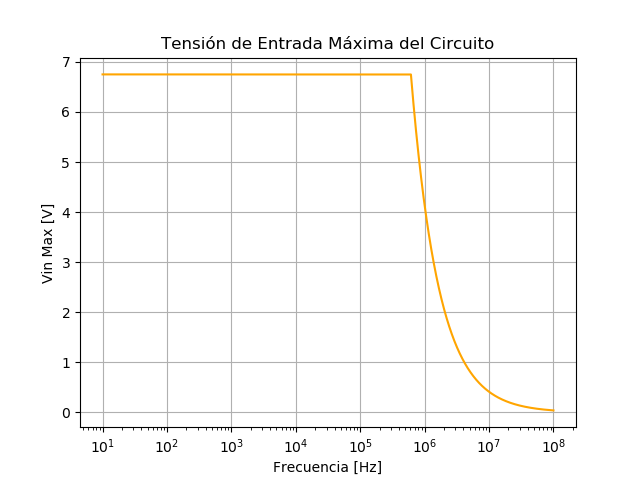
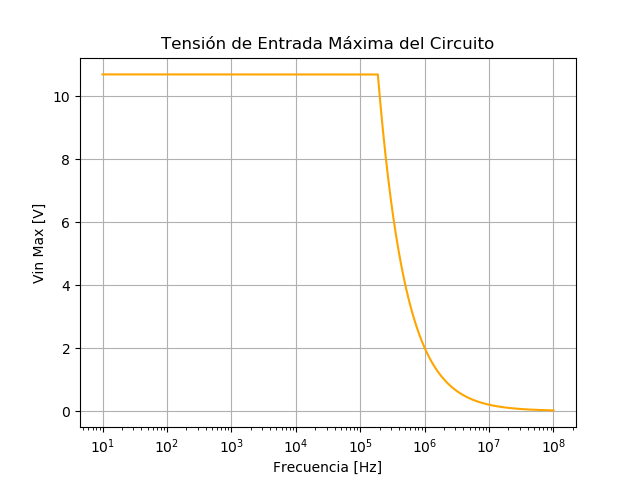
cvbnm

diff --git a/TP3/Ej1/informe previsorio/ej1.tex b/TP3/Ej1/informe previsorio/ej1.tex
@@ -647,11 +647,11 @@ $\pm 18V$ & $\pm 15V$ & $3MHz$ & $\approx V_{CC}-1.5V$ & $13\frac{V}{\mu s}$\\ \
 \label{tab:datos_tl082}
 \end{table}
 
-Observando la tabla ya se puede corroborar que la tensión de alimentación no debe sobrepasar los $18V$ y la tensión de entrada no debe sobrepasar los $15V$ nunca.
+Observando la tabla ya se puede corroborar que la tensión de alimentación no debe sobrepasar los $18V$ y la tensión de entrada no debe sobrepasar los $15V$ nunca. Para el análisis de las limitaciones del circuito, sin embargo, se utilizarán $\pm 15V$ de alimentación como recomendado por el fabricante.
 Luego, teniendo en cuenta que la ganancia máxima del circuito es de $\approx 2dB$, se tiene que
 
 \begin{equation}
-	V_{in_{max}} = \frac{V_{CC} - 1.5V}{G_{max}} = \frac{13.5V}{2} = 6.75V
+	V_{in_{max}} = \frac{V_{CC} - 1.5V}{G_{max}} = \frac{13.5V}{1.26} = 10.72V
 \end{equation}
 
 Sin embargo, también se debe de tener en cuenta el slew rate en el análisis de la tensión de entrada máxima.
@@ -660,16 +660,16 @@ Sin embargo, también se debe de tener en cuenta el slew rate en el análisis de
 	SR= Max\left( \frac{\partial (G\cdot A\cdot \sin (\omega t))}{\partial t}\right) = V_{in} \cdot \omega \cdot G  
 \end{equation}
 
-Primero se analiza la tensión máxima de entrada en la frecuencia de sobrepico.
+Primero se analiza la tensión máxima de entrada en la frecuencia de sobrepico ya que esta posee la ganancia más alta.
 
 \begin{equation}
-	V_{in_{max}} = \frac{SR}{G_{max}\cdot \omega} = \frac{0.517\cdot 10^6\frac{V}{s}}{1686Hz} = 306.64V
+	V_{in_{max}} = \frac{SR}{G_{max}\cdot \omega} = \frac{1.64\cdot 10^6\frac{V}{s}}{1686Hz} = 972.71
 \end{equation}
 
 Luego se analiza la tensión máxima de entrada para las frecuencias altas.
 
 \begin{equation}
-	V_{in_{max}} = \frac{SR}{G_{Banda Atenuante}\cdot \omega} = \frac{4.136\cdot 10^6\frac{V}{s}}{f}
+	V_{in_{max}} = \frac{SR}{G_{Banda Atenuante}\cdot \omega} = \frac{2.01\cdot 10^6\frac{V}{s}}{f}
 \end{equation}
 
 Por lo que se graficó la tensión máxima de entrada final en función de la frecuencia tomando en consideración los cálculos previos.
@@ -681,11 +681,16 @@ Por lo que se graficó la tensión máxima de entrada final en función de la fr
 	\label{fig:vin_max}
 \end{figure}
 
+Luego, el rango de frecuencias en que el circuito opera correctamente, dato conseguido empíricamente, es hasta 1Mhz.
+
+
 \subsection{Conclusiones}
 
 \subsection{Bibliografía Utilizada}
 [1]F. Sergio, Design with operational amplifiers and analog integrated circuits, 4th ed. New York [etc.]: McGraw-Hill, 1988, p. 185.
+
 [2]F. Sergio, Design with operational amplifiers and analog integrated circuits, 4th ed. New York [etc.]: McGraw-Hill, 1988, p. 186.
+
 [3]F. Sergio, Design with operational amplifiers and analog integrated circuits, 4th ed. New York [etc.]: McGraw-Hill, 1988, p. 187.
 
 

diff --git a/TP3/Ej1/Cuentas, spice/slewratelimit.py b/TP3/Ej1/Cuentas, spice/slewratelimit.py
@@ -3,10 +3,10 @@ import matplotlib.pyplot as plt
 
 f = list(range(10**1, 10**8, 100))
 v=[]
-v_sat = 6.75
+v_sat = 10.7
 for ff in f:
 
-    v_slew=(4.136*10**6)/ff
+    v_slew=(2.01*10**6)/ff
 
     if(v_slew < v_sat):
         v.append(v_slew)
